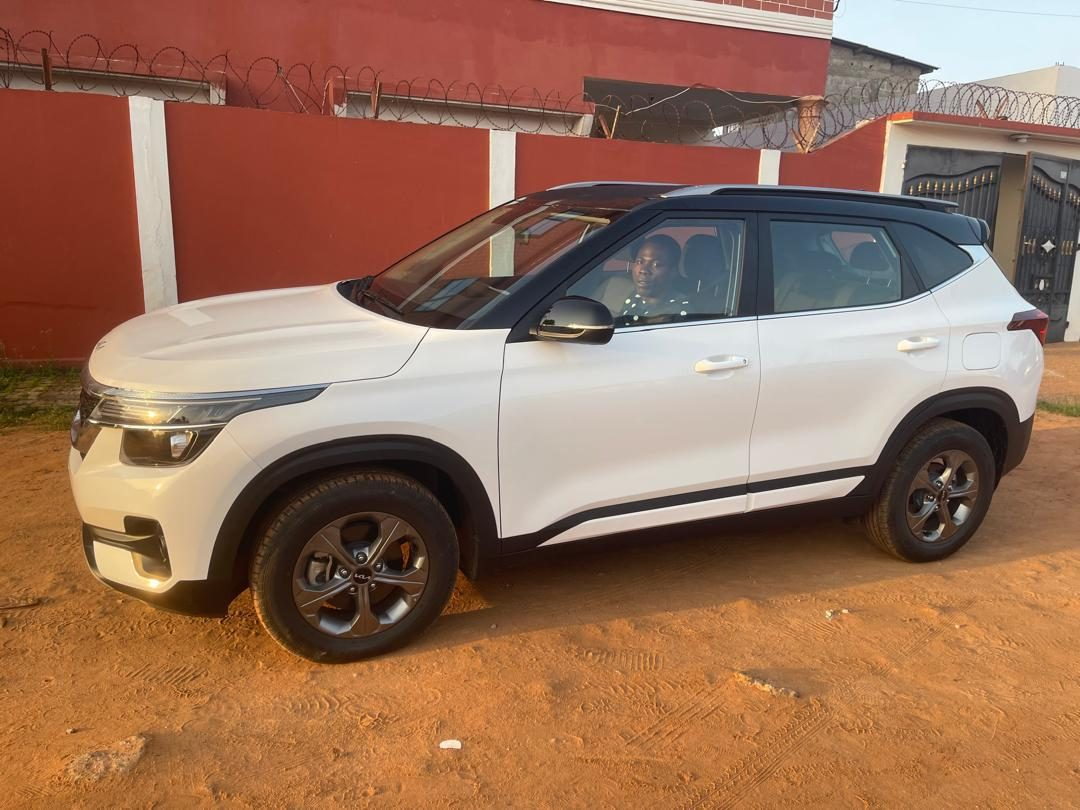
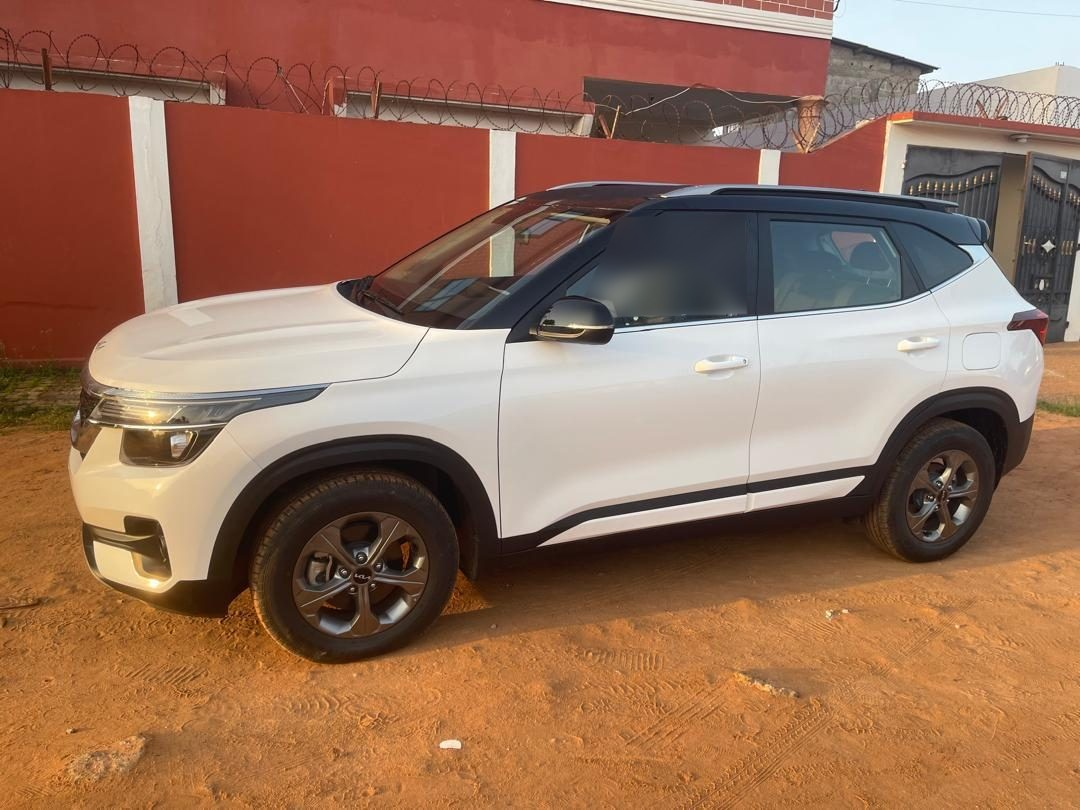
Couverture Afrique, photos retouchées, filtres marque et année sur la vente
- Plaques floutées sur toutes les photos de la flotte de location et personnes
  effacées (moto et piéton CS95, conducteur et passant Kia Seltos, passants vus
  à travers le pare-brise de l'UNI-K)
- Photo de showroom Kia retirée (À propos et diaporama), remplacée par la flotte
- Photos erronées retirées : CS75 PLUS (UNI-K), X5 PLUS (Haval), UNI-V 1.6L (Jetour)
- Vente : filtres catégorie, marque et année, sans l'onglet « Tous les modèles »
- Couverture de toute l'Afrique (accroche, zones, À propos, JSON-LD areaServed)
- SEO : liste des véhicules en vente en fiches Car (marque, année, image), ancres,
  og:locale:alternate

Claude-Session: https://claude.ai/code/session_014K7EJj88zP8nCqXR7ggToS

Changed region(s): [[0.55, 0.2469, 0.7028, 0.4012]]

diff --git a/src/i18n/fr.ts b/src/i18n/fr.ts
@@ -15,7 +15,7 @@ const fr = {
   navCourt: { vente: 'Vente', location: 'Location', services: 'Services', apropos: 'À propos', contact: 'Contact' },
   ctaEntete: 'WhatsApp',
   pied: {
-    texte: 'Vente et location de véhicules à Lomé. Un catalogue 2024-2025 de grandes marques, une flotte de location avec ou sans chauffeur, et une équipe joignable sur WhatsApp.',
+    texte: 'Vente et location de véhicules depuis Lomé, au Togo et dans toute l’Afrique. Un catalogue 2024-2025 de grandes marques, une flotte de location avec ou sans chauffeur, et une équipe joignable sur WhatsApp.',
     navigation: 'Navigation',
     contact: 'Contact',
     ecrire: 'Nous écrire sur WhatsApp',
@@ -82,7 +82,7 @@ const fr = {
   },
   accueil_: {
     titreSeo: 'Vente et location de véhicules à Lomé, Togo',
-    description: (marques: string) => `Véhicules en vente à Lomé (${marques}) et location avec ou sans chauffeur dans tout le Togo. Catalogue 2024-2025 consultable et prix sur WhatsApp.`,
+    description: (marques: string) => `Véhicules en vente à Lomé (${marques}) et location avec ou sans chauffeur au Togo et dans toute l’Afrique. Catalogue 2024-2025 consultable et prix sur WhatsApp.`,
     surtitre: 'Vente · Location',
     h1: 'Achetez ou louez votre véhicule à Lomé',
     actions: { vente: 'Véhicules en vente', location: 'Véhicules en location' },
@@ -91,7 +91,7 @@ const fr = {
       ['Location', 'avec ou sans chauffeur'],
       ['Réponse rapide', 'sur WhatsApp'],
     ],
-    legendes: ['Chery Tiggo 8 Pro · en vente', 'Intérieur Changan UNI-K', 'Kia Sorento'],
+    legendes: ['Chery Tiggo 8 Pro · en vente', 'Intérieur Changan UNI-K', 'Kia Sorento · en location'],
     marquesTitre: 'Les marques de notre catalogue',
     vente: { surtitre: 'Catalogue de ventes', titre: 'Véhicules en vente', tous: (n: number) => `Voir les ${n} modèles` },
     poles: {
@@ -130,10 +130,16 @@ const fr = {
     titreSeo: 'Véhicules en vente à Lomé : SUV, berlines, pick-up',
     description: (n: number, marques: string) => `${n} véhicules en vente à Lomé : ${marques}. Catalogue 2024-2025 en ligne et en PDF, prix sur demande par WhatsApp.`,
     intro: 'Notre catalogue 2024-2025 : choisissez un modèle et demandez son prix sur WhatsApp. Notre équipe vous répond avec la disponibilité et les modalités.',
-    filtres: 'Filtrer par catégorie',
-    tous: 'Tous les modèles',
+    filtres: 'Filtrer le catalogue',
+    categorie: 'Catégorie',
+    marque: 'Marque',
     annee: 'Année',
-    nbModeles: (n: number) => `${n} modèles`,
+    toutesCategories: 'Toutes les catégories',
+    toutesMarques: 'Toutes les marques',
+    toutesAnnees: 'Toutes les années',
+    effacer: 'Effacer les filtres',
+    aucun: 'Aucun modèle ne correspond à ces filtres. Écrivez-nous sur WhatsApp : nous cherchons pour vous.',
+    nbModeles: (n: number) => `${n} modèle${n > 1 ? 's' : ''}`,
     aide: { titre: 'Vous cherchez un modèle précis ?', texte: 'Dites-nous la marque, le modèle et votre budget : nous vous répondons avec les possibilités.' },
     mentionPhotos: 'Photos et caractéristiques issues du catalogue constructeur, à titre indicatif.',
   },
@@ -204,10 +210,10 @@ const fr = {
   },
   apropos: {
     titre: 'À propos',
-    titreSeo: 'À propos, vente et location de véhicules au Togo',
-    description: (nom: string, ville: string) => `${nom}, entreprise basée à ${ville} : vente de véhicules de grandes marques, location courte et longue durée, transferts avec chauffeur.`,
+    titreSeo: 'À propos, vente et location de véhicules au Togo et en Afrique',
+    description: (nom: string, ville: string) => `${nom}, entreprise basée à ${ville} et active dans toute l’Afrique : vente de véhicules de grandes marques, location courte et longue durée, transferts avec chauffeur.`,
     h1: (nom: string) => `${nom}, votre partenaire automobile à Lomé`,
-    intro: (rs: string) => `${rs} accompagne particuliers, entreprises et organisations dans l’achat et la location de véhicules au Togo.`,
+    intro: (rs: string) => `${rs} accompagne particuliers, entreprises et organisations dans l’achat et la location de véhicules, au Togo et dans toute l’Afrique.`,
     approche: 'Notre approche',
     p1: 'Acheter ou louer un véhicule doit rester simple. Vous choisissez dans notre catalogue, vous nous écrivez sur WhatsApp, et notre équipe vous répond avec une proposition claire : modèle, prix ou tarif, disponibilité et conditions.',
     p2: 'Pas de formulaire compliqué ni de paiement en ligne : un échange direct avec une personne de notre équipe, du premier message jusqu’à la remise des clés.',

diff --git a/src/i18n/en.ts b/src/i18n/en.ts
@@ -14,7 +14,7 @@ const en: Dico = {
   navCourt: { vente: 'For sale', location: 'Rental', services: 'Services', apropos: 'About', contact: 'Contact' },
   ctaEntete: 'WhatsApp',
   pied: {
-    texte: 'Vehicle sales and rental in Lomé. A 2024-2025 catalogue of leading brands, a rental fleet with or without a driver, and a team you can reach on WhatsApp.',
+    texte: 'Vehicle sales and rental from Lomé, in Togo and across Africa. A 2024-2025 catalogue of leading brands, a rental fleet with or without a driver, and a team you can reach on WhatsApp.',
     navigation: 'Navigation',
     contact: 'Contact',
     ecrire: 'Message us on WhatsApp',
@@ -86,7 +86,7 @@ const en: Dico = {
   },
   accueil_: {
     titreSeo: 'Vehicle sales and car rental in Lomé, Togo',
-    description: (marques: string) => `Vehicles for sale in Lomé (${marques}) and car rental with or without a driver across Togo. Browse the 2024-2025 catalogue and get prices on WhatsApp.`,
+    description: (marques: string) => `Vehicles for sale in Lomé (${marques}) and car rental with or without a driver, in Togo and across Africa. Browse the 2024-2025 catalogue and get prices on WhatsApp.`,
     surtitre: 'Sales · Rental',
     h1: 'Buy or rent your vehicle in Lomé',
     actions: { vente: 'Cars for sale', location: 'Cars for rent' },
@@ -95,7 +95,7 @@ const en: Dico = {
       ['Rental', 'with or without a driver'],
       ['Quick answer', 'on WhatsApp'],
     ],
-    legendes: ['Chery Tiggo 8 Pro · for sale', 'Changan UNI-K interior', 'Kia Sorento'],
+    legendes: ['Chery Tiggo 8 Pro · for sale', 'Changan UNI-K interior', 'Kia Sorento · for rent'],
     marquesTitre: 'Brands in our catalogue',
     vente: { surtitre: 'Sales catalogue', titre: 'Cars for sale', tous: (n: number) => `See all ${n} models` },
     poles: {
@@ -134,10 +134,16 @@ const en: Dico = {
     titreSeo: 'Cars for sale in Lomé: SUVs, saloons, pick-ups',
     description: (n: number, marques: string) => `${n} vehicles for sale in Lomé: ${marques}. 2024-2025 catalogue online and as a PDF, prices on request via WhatsApp.`,
     intro: 'Our 2024-2025 catalogue: choose a model and ask for its price on WhatsApp. Our team replies with availability and terms.',
-    filtres: 'Filter by category',
-    tous: 'All models',
+    filtres: 'Filter the catalogue',
+    categorie: 'Category',
+    marque: 'Make',
     annee: 'Year',
-    nbModeles: (n: number) => `${n} models`,
+    toutesCategories: 'All categories',
+    toutesMarques: 'All makes',
+    toutesAnnees: 'All years',
+    effacer: 'Clear filters',
+    aucun: 'No model matches these filters. Message us on WhatsApp and we will look for you.',
+    nbModeles: (n: number) => `${n} model${n > 1 ? 's' : ''}`,
     aide: { titre: 'Looking for a specific model?', texte: 'Tell us the make, the model and your budget: we will come back to you with the options.' },
     mentionPhotos: 'Photos and specifications from the manufacturer catalogue, for illustration only.',
   },
@@ -208,10 +214,10 @@ const en: Dico = {
   },
   apropos: {
     titre: 'About us',
-    titreSeo: 'About us, car sales and rental in Togo',
-    description: (nom: string, ville: string) => `${nom}, based in ${ville}: sales of vehicles from leading brands, short and long-term rental, chauffeur-driven transfers.`,
+    titreSeo: 'About us, car sales and rental in Togo and Africa',
+    description: (nom: string, ville: string) => `${nom}, based in ${ville} and active across Africa: sales of vehicles from leading brands, short and long-term rental, chauffeur-driven transfers.`,
     h1: (nom: string) => `${nom}, your automotive partner in Lomé`,
-    intro: (rs: string) => `${rs} helps individuals, companies and organisations buy and rent vehicles in Togo.`,
+    intro: (rs: string) => `${rs} helps individuals, companies and organisations buy and rent vehicles, in Togo and across Africa.`,
     approche: 'Our approach',
     p1: 'Buying or renting a vehicle should be simple. You choose from our catalogue, message us on WhatsApp, and our team replies with a clear proposal: model, price or rate, availability and terms.',
     p2: 'No complicated forms and no online payment: a direct conversation with a member of our team, from the first message to the handover of the keys.',

diff --git a/src/lib/site.ts b/src/lib/site.ts
@@ -100,7 +100,7 @@ export async function entreprise(base: URL | undefined, lang: Lang = 'fr') {
     address: { '@type': 'PostalAddress', ...(site.adresse ? { streetAddress: site.adresse } : {}), addressLocality: site.ville, addressCountry: 'TG' },
     ...(Number.isFinite(lat) && Number.isFinite(lng) && site.gps ? { geo: { '@type': 'GeoCoordinates', latitude: lat, longitude: lng } } : {}),
     ...(carte.lien ? { hasMap: carte.lien } : {}),
-    areaServed: [{ '@type': 'City', name: site.ville }, { '@type': 'Country', name: 'Togo' }],
+    areaServed: [{ '@type': 'City', name: site.ville }, { '@type': 'Country', name: 'Togo' }, { '@type': 'Continent', name: lang === 'en' ? 'Africa' : 'Afrique' }],
     currenciesAccepted: 'XOF',
   };
 }

diff --git a/src/content/vente/changan-uni-v-2024-b.md b/src/content/vente/changan-uni-v-2024-b.md
@@ -8,7 +8,6 @@ moteur: "1.6L Turbo"
 puissance: 197
 boite: Automatique
 consommation: "8,1 L/100 km"
-photo: ../../assets/vente/changan-uni-v-2024-b.jpg
 statut: brouillon
 a_la_une: false
 ordre: 160

diff --git a/src/content/vente/changan-x5-plus-2025.md b/src/content/vente/changan-x5-plus-2025.md
@@ -8,7 +8,6 @@ moteur: "1.5L Turbo"
 puissance: 188
 boite: Automatique
 consommation: "6,45 L/100 km"
-photo: ../../assets/vente/changan-x5-plus-2025.jpg
 statut: publie
 a_la_une: false
 ordre: 40

diff --git a/src/content/vente/changan-cs75-plus.md b/src/content/vente/changan-cs75-plus.md
@@ -7,7 +7,6 @@ moteur: "1.5L Turbo"
 puissance: 192
 boite: Automatique
 consommation: "8,1 L/100 km"
-photo: ../../assets/vente/changan-cs75-plus.jpg
 statut: publie
 a_la_une: false
 ordre: 60
